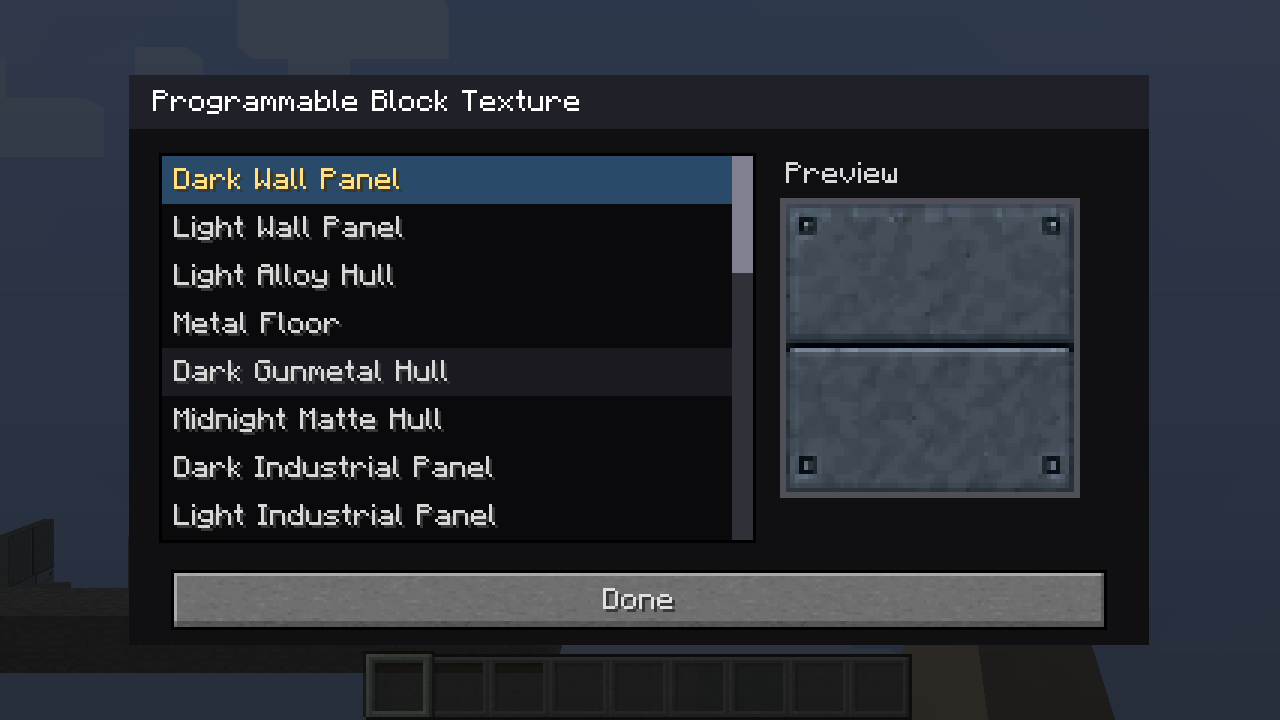
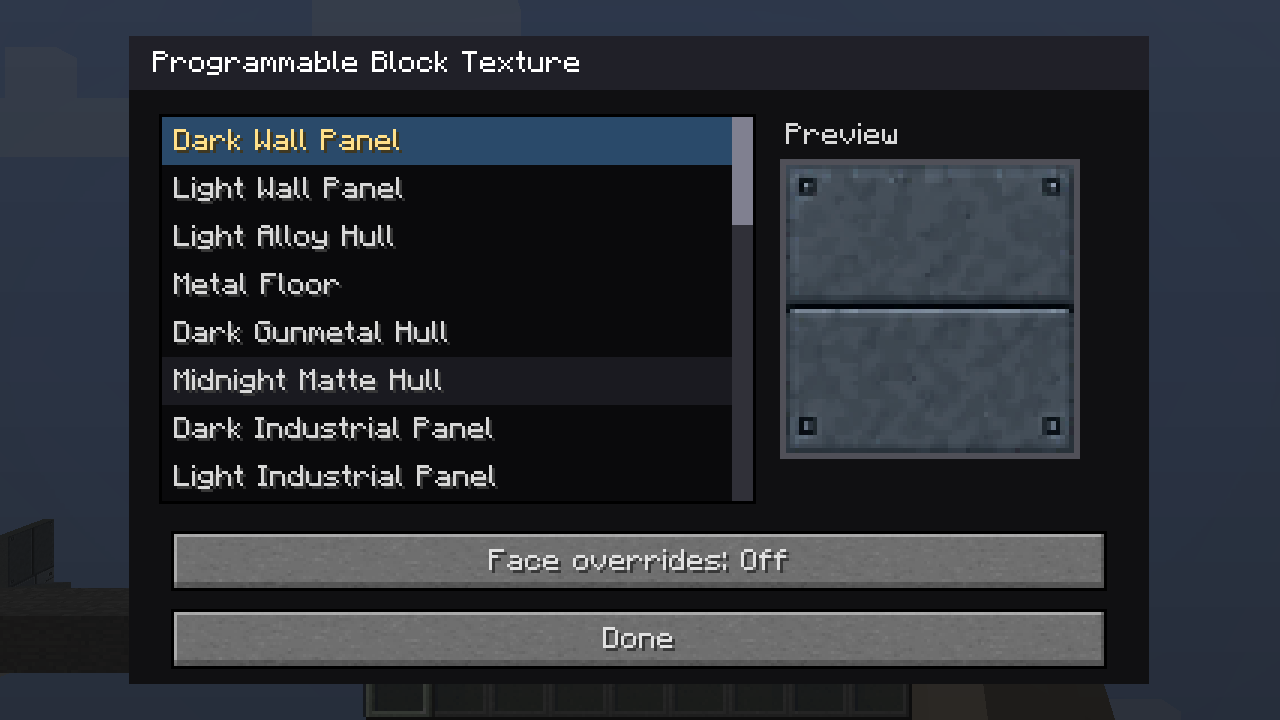
Document 1.2 features and record completed live validation

Changed region(s): [[0.0938, 0.0306, 0.9062, 0.9472], [0.5938, 0.3972, 0.8438, 0.4889], [0.5625, 0.3056, 0.5938, 0.3972]]

diff --git a/testclient/export_gallery.py b/testclient/export_gallery.py
@@ -77,6 +77,12 @@ SHOTS.update({
     "programmable_glass_gui": "building/glass-config.png",
 })
 
+for name in ("faces", "seating", "gear", "gear_extended", "portholes",
+             "half_height", "fill", "half_console", "controller"):
+    SHOTS[f"gallery_v12_{name}"] = f"v1.2/{name.replace('_', '-')}.png"
+SHOTS["programmable_face_overrides_gui"] = "v1.2/face-overrides-config.png"
+SHOTS["programmable_diagonal_width_gui"] = "v1.2/diagonal-config.png"
+
 
 def main():
     if len(sys.argv) != 2:

diff --git a/TASKS_1.2.md b/TASKS_1.2.md
@@ -39,25 +39,37 @@ Version stays at **1.2** for this entire task set. Finished JARs stay in `build/
 | Work | Status | Findings / validation |
 | --- | --- | --- |
 | Version / tracking | Done | Version 1.2 set in Gradle and mod metadata; baseline captured in `testclient/render-run.RA4YaV`. |
-| Face overrides and Copifier | Live suite passed; layout follow-up | `render-run.AlF3qw`: runtime checks passed. Screenshot exposed tall enabled dialog; responsive list/preview added for next run. |
-| WorldEdit diagonal flip | Live suite passed | WorldEdit actual transform tests cover all 8 metadata poses and X/Y/Z flips; diagonal wall and diagonal screen. |
-| Diagonal porthole | Implemented, validating | Four shapes, full/half width, lateral coplanar joining. Vertically adjacent slopes are not coplanar and do not join. |
-| Diagonal half height | Implemented, validating | Full-depth incline within eight pixels of height; upper/lower positions; matching straight runs. |
-| Landing gear | Implemented, validating | Four static gear designs; telescopic gear animates over one second, checks obstruction, reserves its lower cell, responds to redstone/right-click. |
-| Diagonal inside/outside fill | Implemented, validating | Independent inside/outside toggles, saved/copied with diagonal geometry; collision follows fill. |
-| Connected seating | Implemented, validating | Two styles with automatic single/end/middle variants, reserved backrest cell, sitting and cleanup. |
-| Ramp edge gap | Fixed, validating | User identified controller cube. Front/right-edge PNG alpha creates the seam; atlas loader repairs all 24 faces across both packs. Pixel regression passed (17,224 cutoff pixels), preserving solid RGB. |
+| Face overrides and Copifier | Done | Default-off behavior, inheritance, save/copy and responsive dialog verified in `render-run.OoewtY`. |
+| WorldEdit diagonal flip | Done | WorldEdit actual transform tests cover all 8 metadata poses and X/Y/Z flips; diagonal wall and diagonal screen. |
+| Diagonal porthole | Done | Four shapes, full/half width, lateral coplanar joining. Vertically adjacent slopes are not coplanar and do not join. |
+| Diagonal half height | Done | Full-depth incline within eight pixels of height; upper/lower positions; matching straight runs. |
+| Landing gear | Done | Four static gear designs; telescopic gear animates over one second, checks obstruction, reserves its lower cell, responds to redstone/right-click. |
+| Diagonal inside/outside fill | Done | Independent inside/outside toggles, saved/copied with diagonal geometry; collision follows fill. |
+| Connected seating | Done | Two styles with automatic single/end/middle variants, reserved backrest cell, sitting and cleanup. |
+| Ramp edge gap | Done | User identified controller cube. Front/right-edge PNG alpha creates the seam; atlas loader repairs all 24 faces across both packs. Pixel regression passed (17,224 cutoff pixels), preserving solid RGB. |
 | Distance rendering | Report complete | `docs/performance/render-distance-1.2.md`: full block/slab already use chunk meshes; diagonals inherit a 64-block tile cutoff. Recommended chunk-model work documented; no costly range increase. |
-| Copifier crafting | Implemented, validating | Shapeless tool + programmable item; tool retained. Normal crafting consumption processes stacks with shift-click; output respects selected copy settings. |
-| Half Input slab placement | Live suite passed | Side placement matches the support slab half, including its wall slot. |
-| Diagonal Half Console | Implemented, validating | Half-height/depth incline; upper/lower placement matching slabs; configurable input artwork. |
-| Creative door cleanup | Implemented, validating | 42 legacy catalog entries hidden; registrations retained for existing worlds. |
-| Door slab support | Live suite passed | Both slab halves accepted by door placement/support checks. |
-| Client crash | Regression passed | Mutable custom-sprite frame lists; load/mipmap/clear check and full live suite passed. Full external TextureFix pack not installed in test client. |
-| Extra housing textures | Implemented, validating | Added existing glass frame interior and door interior with actual 0xA8 tint; appended indices preserve saved choices. |
-| Final validation / docs | In progress | Baseline and first 1.2 live suite passed. New asset/geometry tests and eight new screenshot scenes added; final suite pending. |
+| Copifier crafting | Done | Shapeless tool + programmable item; tool retained. Normal crafting consumption processes stacks with shift-click; output respects selected copy settings. |
+| Half Input slab placement | Done | Side placement matches the support slab half, including its wall slot. |
+| Diagonal Half Console | Done | Half-height/depth incline; upper/lower placement matching slabs; configurable input artwork. |
+| Creative door cleanup | Done | 42 legacy catalog entries hidden; registrations retained for existing worlds. |
+| Door slab support | Done | Both slab halves accepted by door placement/support checks. |
+| Client crash | Done | Mutable custom-sprite frame lists; load/mipmap/clear check and full live suite passed. Full external TextureFix pack not installed in test client. |
+| Extra housing textures | Done | Added existing glass frame interior and door interior with actual 0xA8 tint; appended indices preserve saved choices. |
+| Final validation / docs | Done | Java 8 build, original-texture packaging, final live runtime checks and pixel analyzers passed (`render-run.OoewtY`); illustrated guide and local documentation links checked. |
 
 ### Validation follow-ups
 
 - Second crash logs: `latest2.log:23695` identifies build t49; its crash report lists version 1.1. `debug2.log:184139` and `184709` repeat TextureFix unloading an immutable frame list (`AbstractList.clear`). Covered by the mutable-frame-list fix and sprite cleanup regression in 1.2; the full external modpack remains outside the isolated suite.
 - Second live run (`render-run.gtA6dE`) passed new runtime assertions but failed the model-loading gate. Corrected telescopic gear blockstate property ordering; final rerun required. Enabled face dialog now fits the test viewport.
+
+- Final candidate (`render-run.OoewtY`): all runtime assertions passed, including new diagonal porthole join eligibility and slab-matched half-console placement. New screenshots visually checked: face overrides, joined seats, gear endpoints, four joined porthole shapes, half-height runs, fill modes, half consoles, and controller against stone. No missing-model errors. Remaining gallery/GUI capture and pixel analyzers are still running.
+- Java 8 build and original-texture packaging passed; both JARs report 1.2. Packaged bytecode/assets match the live client's JAR; only the manifest build timestamp differs after packaging the original-texture variant.
+- Baseline comparison: the existing wall corner in `shot_programmable_corner_pair_top.png`, rectangle `(545,170)-(670,495)`, has zero pixels differing by more than 3/255. Whole-frame differences include moving mobs and the intended controller texture repair.
+
+
+### Completed validation
+
+- Final candidate completed normally at 15:26. All live pixel analyzers and runtime gates passed, including the missing-model gate. The launching shell ended early while its client continued; after normal client shutdown the remaining checks from `test_viewscreen.sh` were run directly against the same output directory. Evidence: `/tmp/vandorlabs-1.2-final.log` and `testclient/render-run.OoewtY/client.log`.
+- Reviewed default/enabled face dialogs and diagonal shape/fill dialog at 1280x720. Exported the new scenes to `docs/images/gallery/v1.2/`; kept unrelated existing gallery images to avoid timestamp/animation churn.
+- Both `build/libs/vandorlabs-1.2.jar` and `build/libs/vandorlabs-1.2-original-textures.jar` are ready. Full live rendering used default textures; the original pack passed packaging and the controller pixel regression.
+- All requested implementation tasks are complete. Distance rendering is report-only as authorized. Remaining acceptance is visual review in the owner's world/modpack; the isolated client does not include that full modpack.

diff --git a/docs/gallery/version-1.2.md b/docs/gallery/version-1.2.md
@@ -1,0 +1,97 @@
+# New in 1.2
+
+[Back to the block guide](README.md)
+
+Open programmable configuration dialogs with **shift-right-click in creative
+mode**, or use the Configurizer.
+
+## Per-face textures
+
+Programmable Block and Programmable Slab start with **Face overrides: Off**.
+Turn it on to reveal **Texture for**, choose a face, and select its texture.
+**Use main texture** removes that face's override. Main remains the default
+for all unassigned faces. Front/back/left/right follow the block's facing.
+Turning overrides off preserves the choices for later use.
+
+![Face override dialog](../images/gallery/v1.2/face-overrides-config.png)
+![From right: main texture, overridden block, lower slab and upper slab](../images/gallery/v1.2/faces.png)
+
+The texture list also includes **Glass Frame Interior** and **Door Interior**,
+the darker surface used inside the door. The existing door-frame finish remains
+available. These choices add no block IDs for face combinations.
+
+The [Duplifier](../DUPLIFIER.md) copies face overrides separately from the main
+texture. Copying a disabled source disables overrides on the target and leaves
+its stored face choices intact. A configured Duplifier plus programmable block
+items now forms a shapeless recipe; shift-click its output to process a stack.
+The tool is retained.
+
+## Diagonal building blocks
+
+**Programmable Diagonal Porthole** offers hexagonal, square, octagonal and round
+openings, half/full width, glass shade and joining. Matching neighbors join
+sideways along the same plane. Width, slope, facing and opening shape must
+match; vertically adjacent slopes do not form a coplanar window.
+
+![Four diagonal porthole shapes, joined sideways](../images/gallery/v1.2/portholes.png)
+
+**Programmable Diagonal Wall** adds a full-depth, half-height option, with
+matching straight runs in lower or upper positions. It also offers independent
+inside and outside fill options. Collision follows the configured shape.
+
+![Diagonal shape and fill controls](../images/gallery/v1.2/diagonal-config.png)
+
+![Joined lower and upper half-height walls](../images/gallery/v1.2/half-height.png)
+![From right: no fill, inside, outside, both](../images/gallery/v1.2/fill.png)
+
+**Programmable Diagonal Half Console** is a separate block, half a block tall
+and deep. Side placement against a slab matches its upper/lower half, with the
+slope inverted for the upper position. It uses programmable input artwork.
+
+![Lower and upper diagonal half consoles beside slabs](../images/gallery/v1.2/half-console.png)
+
+WorldEdit flips now transform diagonal facing and slope together. Include both
+cells when copying any two-cell fixture. See [copy compatibility](../copy-compatibility.md).
+
+## Connected seating
+
+Luxury and military seats join automatically into single seats, ends and
+middle sections when placed side by side with matching style and facing.
+Right-click to sit; sneak to dismount. They reserve the cell above for their
+backrests, so place them with clear headroom.
+
+![Luxury and military connected seating](../images/gallery/v1.2/seating.png)
+
+## Landing gear
+
+There are small and large top-mounted and side-mounted designs. The small
+**telescopic** top-mounted gear extends/retracts on right-click or a redstone
+signal change. Travel takes one second. Extension requires clear space below;
+that cell remains reserved until retraction finishes. Breaking either occupied
+cell removes the fixture.
+
+![Landing gear retracted](../images/gallery/v1.2/gear.png)
+![Telescopic gear extended at the left](../images/gallery/v1.2/gear-extended.png)
+
+## Placement and compatibility fixes
+
+- Half Input side placement now matches the supporting slab's half.
+- Programmable Doors accept Programmable Slabs as support.
+- Legacy Space Door entries are hidden from creative search; existing placed
+  doors keep their registrations.
+- The Ramp controller's transparent texture-edge pixels are filled during
+  texture loading, closing the reported seam beside another block.
+- Custom door sprites use mutable frame lists so TextureFix can release their
+  image data. Both supplied crash reports show this same failure on 1.1.
+  The isolated client verifies sprite cleanup; the full external modpack has
+  not been tested here.
+
+![Ramp controller touching a stone block](../images/gallery/v1.2/controller.png)
+
+## Render distance
+
+Full Programmable Blocks and Slabs already use terrain meshes. Diagonals and
+some other programmable shapes still use a renderer with a 64-block cutoff.
+The [render-distance report](../performance/render-distance-1.2.md) describes
+moving static geometry into terrain meshes and the cost of increasing the
+current renderer's range. This release leaves that broader change for later.

diff --git a/docs/copy-compatibility.md b/docs/copy-compatibility.md
@@ -17,6 +17,9 @@ settings in `TileEntityAnimatedScreenSelector.writeToNBT/readFromNBT`.
 WorldEdit 6.1.10 uses its own vanilla-only direction registry for `//rotate`.
 When WorldEdit is installed, Vandor Labs adds the facing metadata for every
 Vandor Labs door and propulsion block to that registry after block registration.
+Diagonal walls, diagonal screens, diagonal portholes and diagonal half consoles
+also register their facing and slope together, so horizontal and vertical
+`//flip` preserve the intended angle.
 The upper half of a door keeps its hinge, open, and power bits; its facing comes
 from the rotated lower half. Triangular thrusters also rotate their corner block
 variant on floors and ceilings. WorldEdit is optional: the integration loads only
@@ -40,9 +43,8 @@ It also reconstructs both cells of Vandor Labs doors and chairs. The integration
 reflection-free and has no hard dependency, so Vandor Labs loads normally without
 BBW installed.
 
-Programmable blocks open a GUI on an ordinary empty-hand right-click. As with
-other interactive Minecraft blocks, sneak-right-click with the wand when the
-GUI would otherwise consume the interaction.
+Programmable configuration dialogs open with shift-right-click in creative
+mode. Ordinary right-click retains each block's normal interaction.
 
 ## Regression tests
 

diff --git a/docs/DUPLIFIER.md b/docs/DUPLIFIER.md
@@ -43,3 +43,23 @@ Placement facing, physical position, live redstone signal, current door motion,
 and ownership are not stored. The item uses semantic setting keys rather than
 copying tile NBT, so existing saved-world field names and placement behavior
 remain intact.
+
+## Face overrides and diagonal geometry (1.2)
+
+Programmable Block and Slab have a separate **Face Overrides** copy switch.
+When the source has overrides enabled, it copies the six face choices and
+turns them on. When the source has overrides disabled, it turns them off on
+the target while preserving that target's stored face choices. The **Wall
+Texture** switch controls the main texture independently. Each unassigned face
+continues to use that main texture. Front/back/left/right follow block facing.
+
+Diagonal width, half height and inside/outside fill transfer through the
+**Diagonal Geometry** switch where the target supports them.
+
+## Apply settings while crafting
+
+Put a configured Duplifier and a programmable block item in any crafting grid.
+The output receives compatible settings selected in Apply Settings. The tool
+is returned unchanged. Shift-click the output to process a stack using normal
+Minecraft crafting; each craft consumes one block. Existing target settings
+that are not selected or supported remain intact.

diff --git a/README.md b/README.md
@@ -15,11 +15,14 @@ See the [screenshot and functionality gallery](docs/gallery/README.md) for a
 visual tour of the programmable blocks, doors, propulsion systems, controls,
 lighting, furniture, ramps, glass, and building materials.
 
+See [what changed in 1.2](docs/gallery/version-1.2.md) for face texture overrides,
+diagonal options, connected seats, landing gear, and placement fixes.
+
 ## What's in the mod
 
 - **Structure**: programmable hull, padding, pipe, and vent finishes, wall
   panels, ribs, and cockpit glass. Shift-right-click a Programmable Diagonal
-  Wall in creative mode to choose a half-block or full-block diagonal width.
+  Wall in creative mode to choose half/full width, half height, and inside/outside fill.
 - **Screens**: static planet/ship/science viewscreens (directional) and
   sequenced animated displays with static/animated/off modes that wake on
   redstone and sleep when power drops.

diff --git a/docs/gallery/programmable.md b/docs/gallery/programmable.md
@@ -1,5 +1,8 @@
 # Programmable displays and consoles
 
+The standalone diagonal half console and per-face block/slab finishes are
+covered in [the 1.2 guide](version-1.2.md).
+
 Programmable displays let you choose the visible artwork and how it behaves. Their settings persist with the block. Screen-capable blocks can choose **Off**, **Static**, or **Animated** display, animation speed, and redstone behavior. Many also offer a separate wall or side texture so the housing can match nearby construction.
 
 In Creative mode, shift-right-click a block to open its configuration. Lists scroll to show all available choices; a valid change applies immediately. The [Configurizer](../CONFIGURIZER.md) provides another way to open settings, and the [Duplifier](../DUPLIFIER.md) can copy compatible settings to another block.

diff --git a/docs/gallery/building.md b/docs/gallery/building.md
@@ -1,5 +1,8 @@
 # Building blocks, finishes, and glass
 
+For face texture overrides, diagonal portholes, half-height walls and fill
+options, see [the 1.2 additions](version-1.2.md).
+
 Programmable Block, Wall, Slab, Ramp, and other compatible shapes use a shared finish list. Choose a material in the Creative-mode shift-right-click dialog. Some screen blocks use the same list for their wall or side texture while keeping a separate primary screen selection. The [Duplifier](../DUPLIFIER.md) can carry a compatible finish to another shape.
 
 ## Choose a form

diff --git a/docs/gallery/ramp-controller.md b/docs/gallery/ramp-controller.md
@@ -1,5 +1,8 @@
 # Programmable Ramp
 
+Version 1.2 seals transparent controller texture edges. See the
+[controller close-up](version-1.2.md#placement-and-compatibility-fixes).
+
 The Programmable Ramp controls a platform of matching slabs or solid blocks. It can form a slope, fill the space beneath that slope, lift the whole platform, or extend it into a solid run. The images show each mode in its off and on positions.
 
 | Mode | Off | On |

diff --git a/docs/gallery/chairs.md b/docs/gallery/chairs.md
@@ -1,5 +1,8 @@
 # Chairs
 
+Luxury and military seats now join into benches. See
+[connected seating in 1.2](version-1.2.md#connected-seating).
+
 Vandor Labs includes five sittable chair designs. Right-click a chair to sit; sneak to get up. Choose the appearance that fits the room: command and operator seats for workstations, or companion, conference, and mess hall seats for shared spaces.
 
 | Chair | Close-up |

diff --git a/docs/gallery/README.md b/docs/gallery/README.md
@@ -4,6 +4,8 @@ These images come from a real Forge 1.12.2 client in the repeatable ReproLab
 world. The close-ups show individual shapes, controls, and states. Open an image
 at full size to inspect its texture and model.
 
+- [New in 1.2](version-1.2.md)
+
 ## Blocks and systems
 
 - [Programmable displays and consoles](programmable.md)
